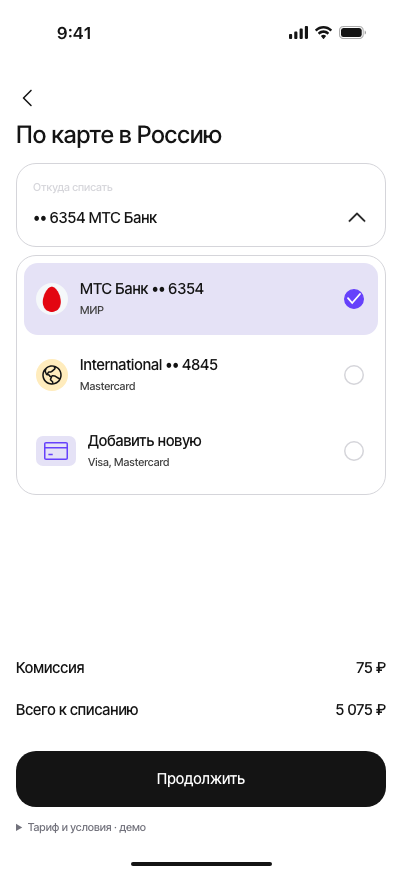
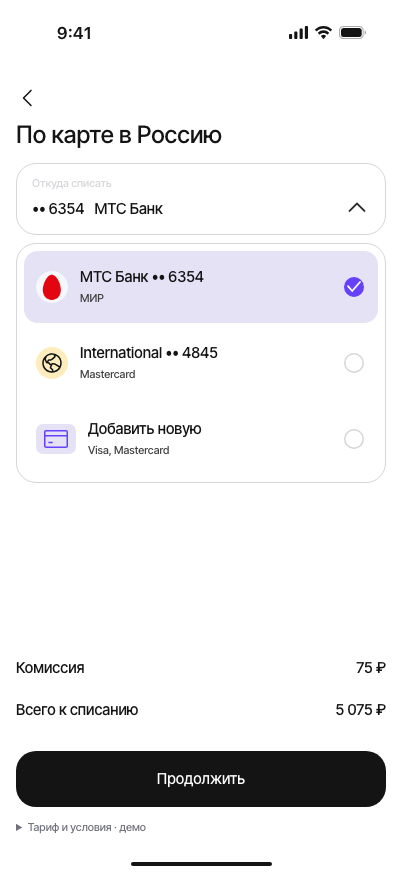
Match source-card states and inline amount currency chevron to Figma

Changed region(s): [[0.0597, 0.1854, 0.9552, 0.5561], [0.8358, 0.4943, 0.9254, 0.5252]]

diff --git a/src/authorized-transfer.js b/src/authorized-transfer.js
@@ -51,12 +51,12 @@ export function createAuthorizedTransfer({ cards, card, recipient, transferKind,
     <form novalidate>
       ${international ? '<section class="international-destination"><h2>Страна и валюта получения</h2><p>Россия → Узбекистан · RUB → UZS</p><p class="quote-note">Демонстрационный расчёт</p></section>' : ''}
       <section class="source-section">
-        <div class="source-dropdown"><button type="button" class="source-trigger" aria-expanded="false" aria-controls="source-options"><span class="field-caption">Откуда списать</span><span class="source-value">Выберите карту</span><img class="source-chevron" src="./assets/images/card-source-chevron.svg" alt=""></button>
+        <div class="source-dropdown"><button type="button" class="source-trigger" aria-expanded="false" aria-controls="source-options"><span class="field-caption">Откуда списать</span><span class="source-value">Выберите карту</span><img class="source-chevron" src="./assets/images/source-field-chevron.svg" alt=""></button>
           <div id="source-options" class="source-options" hidden>${cards.map(sourceOption).join('')}<button type="button" data-add-card><img class="source-add-icon" src="./assets/images/card-add.svg" alt=""><span class="source-option-copy"><span>Добавить новую</span><small>Visa, Mastercard</small></span><img class="source-radio" src="./assets/images/card-radio-empty.svg" alt=""></button></div>
         </div>
       </section>
       <section class="destination-section"><div class="destination-field recipient-card-field"><label for="destination-number">Номер карты получателя</label><input id="destination-number" inputmode="numeric" autocomplete="off" placeholder="0000 0000 0000 0000" aria-describedby="destination-error"><button type="button" class="scan-card" aria-label="Сканировать карту"><img src="./assets/images/${international ? 'card-scan.svg' : 'recipient-scan.svg'}" alt=""></button></div><p id="destination-error" class="field-error" role="alert"></p><p id="recipient-bank-status" class="recipient-bank" role="status"></p><p id="recipient-card-status" class="card-availability quote-note" role="status" aria-live="polite"></p></section>
-      <section class="inline-amount"><h2>Сумма</h2><div class="destination-field amount-field"><label for="transfer-amount">Сумма перевода</label><div class="amount-input-row"><input id="transfer-amount" class="transfer-amount-inline" inputmode="decimal" placeholder="0" aria-describedby="amount-error"><span class="currency-picker"><select class="amount-currency currency-select" aria-label="Валюта перевода"><option value="RUB" aria-label="Российский рубль">₽</option><option value="USD" aria-label="Доллар США">$</option><option value="EUR" aria-label="Евро">€</option></select><img src="./assets/images/card-source-chevron.svg" alt="" aria-hidden="true"></span><span class="amount-unit" aria-hidden="true">₽</span></div><button type="button" class="clear-amount" aria-label="Очистить сумму" hidden>×</button></div><p id="amount-error" class="field-error" role="alert"></p><button type="button" class="add-shortfall" hidden></button></section><div class="transfer-footer"><div class="inline-quote" hidden>${international ? '<dl class="quote-summary international-summary"><dt>Курс перевода</dt><dd data-rate>—</dd><dt>Получатель получит</dt><dd data-receive>—</dd></dl>' : ''}<dl class="amount-conversion" hidden><dt>Демо-курс</dt><dd data-amount-rate></dd><dt>Сумма в рублях</dt><dd data-amount-rubles></dd></dl><dl class="quote-summary"><dt>Комиссия</dt><dd data-fee>—</dd><dt>Всего к списанию</dt><dd data-total>—</dd></dl></div>
+      <section class="inline-amount"><h2>Сумма</h2><div class="destination-field amount-field"><label for="transfer-amount">Сумма перевода</label><div class="amount-input-row"><input id="transfer-amount" class="transfer-amount-inline" inputmode="decimal" placeholder="0" aria-describedby="amount-error"><span class="currency-picker"><select class="amount-currency currency-select" aria-label="Валюта перевода"><option value="RUB" aria-label="Российский рубль">₽</option><option value="USD" aria-label="Доллар США">$</option><option value="EUR" aria-label="Евро">€</option></select><img src="./assets/images/${international ? 'card-source-chevron.svg' : 'amount-currency-chevron.svg'}" alt="" aria-hidden="true"></span><span class="amount-unit" aria-hidden="true">₽</span></div><button type="button" class="clear-amount" aria-label="Очистить сумму" hidden>×</button></div><p id="amount-error" class="field-error" role="alert"></p><button type="button" class="add-shortfall" hidden></button></section><div class="transfer-footer"><div class="inline-quote" hidden>${international ? '<dl class="quote-summary international-summary"><dt>Курс перевода</dt><dd data-rate>—</dd><dt>Получатель получит</dt><dd data-receive>—</dd></dl>' : ''}<dl class="amount-conversion" hidden><dt>Демо-курс</dt><dd data-amount-rate></dd><dt>Сумма в рублях</dt><dd data-amount-rubles></dd></dl><dl class="quote-summary"><dt>Комиссия</dt><dd data-fee>—</dd><dt>Всего к списанию</dt><dd data-total>—</dd></dl></div>
       <div class="recipient-next"><button class="authorized-continue" disabled aria-label="Продолжить" aria-busy="false"><span class="continue-label">Продолжить</span><img class="continue-spinner" src="./assets/images/continue-spinner.svg" alt="" hidden></button></div>
       </div>
     <details class="quote-disclosure" hidden><summary>Тариф и условия · демо</summary><p class="quote-note"></p></details>
@@ -142,7 +142,15 @@ export function createAuthorizedTransfer({ cards, card, recipient, transferKind,
   const closeSourceOptions=()=>{options.hidden=true;trigger.setAttribute('aria-expanded','false');};
   for(const eventName of ['click','focusin'])screen.addEventListener(eventName,event=>{if(!event.target.closest('.source-dropdown'))closeSourceOptions();});
   screen.addEventListener('keydown',event=>{if(event.key==='Escape'&&!options.hidden){event.stopPropagation();closeSourceOptions();trigger.focus();}});
-  options.onkeydown = e => { if(e.key==='Escape'){options.hidden=true;trigger.setAttribute('aria-expanded','false');trigger.focus();} };
+  options.onkeydown = e => {
+    if(e.key==='Escape'){e.preventDefault();e.stopPropagation();closeSourceOptions();trigger.focus();return;}
+    if(!['ArrowDown','ArrowUp','Home','End'].includes(e.key))return;
+    e.preventDefault();
+    const choices=[...options.querySelectorAll('button')];
+    const active=choices.indexOf(document.activeElement);
+    const index=e.key==='Home'?0:e.key==='End'?choices.length-1:(active+(e.key==='ArrowDown'?1:-1)+choices.length)%choices.length;
+    choices[index]?.focus();
+  };
   options.onclick = e => {
     if(e.target.closest('[data-add-card]')) {
       options.hidden=true;trigger.setAttribute('aria-expanded','false');

diff --git a/src/styles.css b/src/styles.css
@@ -1178,16 +1178,16 @@ body:has(.card-transfer) .home-indicator { height:calc(32px + env(safe-area-inse
   .card-transfer--russia .recipient-card-field:hover .scan-card { background:#e5e2f6; }
 }
 
-/* Amount variants — Figma 137:4097. Currency is a 32 px action on the right. */
+/* Amount variants — Figma 163:5473. Inline currency with a 16 px chevron. */
 .amount-unit { display:none; }
 .card-transfer--russia .amount-field,
 .card-transfer--russia .amount-field:focus-within { border-color:var(--c2c-border-default); padding:11px 15px; }
-.card-transfer--russia .amount-input-row { padding-right:80px; width:100%; }
-.card-transfer--russia .amount-unit { display:block; flex-shrink:0; font:500 15px/28px 'Inter Tight',sans-serif; }
-.card-transfer--russia .amount-field .currency-picker { position:absolute; right:15px; top:50%; transform:translateY(-50%); width:32px; height:32px; }
-.card-transfer--russia .currency-select { width:32px; height:32px; margin:0; padding:0; border-radius:8px; color:#6641fb; background:#e5e2f6; font:500 15px/32px 'Inter Tight',sans-serif; text-align:center; text-align-last:center; }
-.card-transfer--russia .currency-picker>img { display:none; }
-.card-transfer--russia .clear-amount { visibility:hidden; right:53.5px; top:50%; transform:translateY(-50%); width:32px; height:32px; border-radius:8px; line-height:32px; }
+.card-transfer--russia .amount-input-row { padding-right:36px; width:100%; gap:4px; }
+.card-transfer--russia .amount-unit { display:none; }
+.card-transfer--russia .amount-field .currency-picker { position:relative; flex:0 0 36px; width:36px; height:28px; }
+.card-transfer--russia .currency-select { width:36px; height:44px; margin:-8px 0; padding:8px 20px 8px 0; border-radius:6px; color:#141414; background:transparent; font:500 15px/28px 'Inter Tight',sans-serif; text-align:left; text-align-last:left; }
+.card-transfer--russia .currency-picker>img { display:block; width:16px; height:16px; right:2px; }
+.card-transfer--russia .clear-amount { visibility:visible; right:15px; top:50%; transform:translateY(-50%); width:32px; height:32px; border-radius:8px; line-height:32px; }
 .card-transfer--russia .amount-field:focus-within .clear-amount { visibility:visible; }
 .card-transfer--russia .amount-field:has(input[aria-invalid=true]) { border-color:#b83d45; }
 .card-transfer--russia .amount-field:has(input[aria-invalid=true]) input,
@@ -1202,3 +1202,11 @@ body:has(.card-transfer) .home-indicator { height:calc(32px + env(safe-area-inse
 .continue-spinner { width:24px; height:24px; animation:continue-turn .9s linear infinite; }
 @keyframes continue-turn { to { transform:rotate(360deg); } }
 @media(prefers-reduced-motion:reduce) { .continue-spinner { animation:none; } }
+
+/* Source-card Default / Active / Expanded — Figma 140:2298, 101:591. */
+.card-transfer--russia .source-trigger,
+.card-transfer--russia .source-trigger[aria-expanded=true] { height:72px; padding:11px 15px; gap:4px; justify-content:flex-start; }
+.card-transfer--russia .source-value { width:calc(100% - 40px); white-space:pre; overflow:hidden; text-overflow:ellipsis; }
+.card-transfer--russia .source-trigger .source-chevron { right:16.5px; top:33px; }
+.card-transfer--russia .source-trigger[aria-expanded=true] .source-chevron { top:31.5px; }
+.card-transfer--russia .source-options { top:80px; border-width:1.5px; max-height:min(360px,calc(100dvh - 300px)); overflow-y:auto; }

diff --git a/README.md b/README.md
@@ -123,8 +123,15 @@ npm test
 
 ## Сумма и кнопка «Продолжить» — актуальные состояния
 
-Поле суммы обновлено по `137:4097`: серая граница, единица валюты рядом с числом и отдельная лавандовая кнопка валюты 32 × 32 справа. Сохранены ₽/$/€, демо-конвертация и очистка суммы (доступна при фокусе в поле). Заполненная подпись светлая; при ошибке граница, сумма и единица валюты красные, подпись чёрная, пояснение под полем.
+Поле суммы обновлено по `163:5473`: серая граница, единица валюты рядом с числом и шеврон вниз 16 × 16 для раскрытия выбора валюты. Сохранены ₽/$/€, демо-конвертация и крестик очистки: виден, пока сумма заполнена, включая состояние без фокуса. Заполненная подпись светлая; при ошибке граница, сумма и единица валюты красные, подпись чёрная, пояснение под полем.
 
 Кнопка сверена с `140:2161`/`137:4184`: 56 px высоты, радиус 20 px, Inter Tight Medium 15 px. Неактивная — фон `#EBEBEE`, текст `#D5D5DA`; активная — `#141414`/белый; загрузка — чёрная с оригинальным спиннером 24 × 24. Загрузка отображается при заполненной сумме, выбранном отправителе и ожидании проверки получателя/банка. Пока проверка не закончилась, финальная комиссия и подтверждение недоступны. Повторный ввод отменяет устаревшее состояние; при уменьшенном движении спиннер не вращается.
 
-Проверка: `node tests/amount-button-states.mjs`. Пустое, заполненное, hover- и ошибочное поле, координаты валютной кнопки, три состояния CTA, реальный ожидающий запрос, уменьшенное движение, валюта/комиссия, очистка и узкие экраны. Снимки: `screenshots/amount-*.png`, `screenshots/continue-*.png`.
+Проверка: `node tests/amount-button-states.mjs`. Пустое, заполненное, hover- и ошибочное поле, координаты шеврона валюты, три состояния CTA, реальный ожидающий запрос, уменьшенное движение, валюта/комиссия, очистка и узкие экраны. Снимки: `screenshots/amount-*.png`, `screenshots/continue-*.png`.
+
+
+## Поле «Откуда списать» — 140:2298
+
+Default / Active / Expanded синхронизированы с `140:2298` и `101:591`: поле всегда 72 px, подпись и значение выровнены по исходным слоям, шеврон расположен на строке значения. Между полем и списком 8 px. Исходные иконки банка, International, добавления карты и отметок выбора сохранены локально. Контур списка серый, выбранная строка лавандовая, дополнительные карты доступны через прокрутку. Существующие номера карт сохраняются из данных прототипа.
+
+Список закрывается при выборе, клике снаружи и Escape; Escape не уводит со страницы. Стрелки/Home/End переключают фокус по пунктам. Добавление карты, неизвестный баланс и выбор валюты сохранены. Проверка: `node tests/source-field-figma.mjs`; снимки `screenshots/source-default.png`, `screenshots/source-active.png`, `screenshots/source-expanded.png`.
